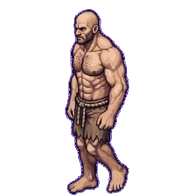
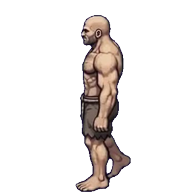
BUILD 425: install user's new 3 (E) and 7 (W) walk sheets
- Extracted 9 walk frames (every 4th from the 36-frame sheets, per the
  BUILD 409/413 convention) + 1 idle each for bare_right and bare_left
- Blue-screen keyed, uniformly registered, 195x195 feet-anchored to match
  the existing side art scale
- manifest.json: walk arrays 2->9 frames; centroid/facing/view audits
  updated for the new art
- BARB_FRAMES synced; sim: 44,015 passed, 0 failed; tsc 2 known baseline errors

Changed region(s): [[0.3077, 0.0308, 0.6769, 1.0]]

diff --git a/index.html b/index.html
@@ -1,1 +1,1 @@
-<!doctype html><html lang="en"><head><!-- BUILD309-VIEWPORT-FIX-MARKER --><meta charset="UTF-8"><meta name="viewport" content="width=device-width, initial-scale=1.0, maximum-scale=1.0, user-scalable=no"><meta name="theme-color" content="#17362e"><link rel="icon" type="image/svg+xml" href="favicon.svg"><meta name="description" content="Explore Mosslight Crossing in the Adventure Game field journal."><title>Adventure Game — Mosslight Crossing</title></head><body><div id="root"></div><script>window.__AG_BUILD="424";(function(){var shown=false;function code(m){var h=0,s=window.__AG_BUILD+"|"+m;for(var i=0;i<s.length;i++){h=(Math.imul(h,31)+s.charCodeAt(i))|0;}return "AG"+window.__AG_BUILD+"-"+(h>>>0).toString(36).toUpperCase().padStart(6,"0").slice(-5);}function show(m,k){if(shown||window.__agBooted)return;shown=true;var d=document.createElement("div");d.id="ag-boot-crash";var p=document.createElement("div");p.className="ag-boot-panel";var t=document.createElement("div");t.className="ag-boot-title";t.textContent="\u26a0 GAME FAILED TO START";var c=document.createElement("div");c.className="ag-boot-code";c.textContent=code(String(m));var g=document.createElement("div");g.className="ag-boot-msg";g.textContent=String(m).slice(0,300);var n=document.createElement("div");n.className="ag-boot-kind";n.textContent=k;var b=document.createElement("button");b.textContent="Reload game";b.onclick=function(){location.reload();};p.appendChild(t);p.appendChild(c);p.appendChild(g);p.appendChild(n);p.appendChild(b);d.appendChild(p);document.body.appendChild(d);}window.addEventListener("error",function(e){if(e.target&&e.target!==window)return;show(e.message||"script error","boot error");},true);window.addEventListener("unhandledrejection",function(e){var r=e.reason;show((r&&(r.message||r))||"rejection","boot rejection");});setTimeout(function(){if(!window.__agBooted)show("The game did not finish loading in time.","load timeout");},20000);})();</script><style>#ag-boot-crash{position:fixed;inset:0;z-index:99999;background:#0d1a16;display:flex;align-items:center;justify-content:center;padding:24px}#ag-boot-crash .ag-boot-panel{max-width:420px;width:100%;background:#14261f;border:1px solid #2c4a3e;border-radius:12px;padding:24px;text-align:center;color:#e8f0e9;font-family:system-ui,sans-serif}#ag-boot-crash .ag-boot-title{font-size:20px;font-weight:800;letter-spacing:.5px}#ag-boot-crash .ag-boot-code{font-family:monospace;font-size:22px;color:#ffd75e;margin:12px 0;letter-spacing:1px}#ag-boot-crash .ag-boot-msg{font-size:13px;color:#b9c9bd;word-break:break-word}#ag-boot-crash .ag-boot-kind{font-size:11px;color:#7d8f83;margin-top:8px;text-transform:uppercase;letter-spacing:1px}#ag-boot-crash button{margin-top:16px;background:#e8a33d;border:0;border-radius:8px;padding:10px 22px;font-size:15px;font-weight:700;color:#231603;cursor:pointer}</style><script type="module" src="/src/main.tsx"></script></body></html>
+<!doctype html><html lang="en"><head><!-- BUILD309-VIEWPORT-FIX-MARKER --><meta charset="UTF-8"><meta name="viewport" content="width=device-width, initial-scale=1.0, maximum-scale=1.0, user-scalable=no"><meta name="theme-color" content="#17362e"><link rel="icon" type="image/svg+xml" href="favicon.svg"><meta name="description" content="Explore Mosslight Crossing in the Adventure Game field journal."><title>Adventure Game — Mosslight Crossing</title></head><body><div id="root"></div><script>window.__AG_BUILD="425";(function(){var shown=false;function code(m){var h=0,s=window.__AG_BUILD+"|"+m;for(var i=0;i<s.length;i++){h=(Math.imul(h,31)+s.charCodeAt(i))|0;}return "AG"+window.__AG_BUILD+"-"+(h>>>0).toString(36).toUpperCase().padStart(6,"0").slice(-5);}function show(m,k){if(shown||window.__agBooted)return;shown=true;var d=document.createElement("div");d.id="ag-boot-crash";var p=document.createElement("div");p.className="ag-boot-panel";var t=document.createElement("div");t.className="ag-boot-title";t.textContent="\u26a0 GAME FAILED TO START";var c=document.createElement("div");c.className="ag-boot-code";c.textContent=code(String(m));var g=document.createElement("div");g.className="ag-boot-msg";g.textContent=String(m).slice(0,300);var n=document.createElement("div");n.className="ag-boot-kind";n.textContent=k;var b=document.createElement("button");b.textContent="Reload game";b.onclick=function(){location.reload();};p.appendChild(t);p.appendChild(c);p.appendChild(g);p.appendChild(n);p.appendChild(b);d.appendChild(p);document.body.appendChild(d);}window.addEventListener("error",function(e){if(e.target&&e.target!==window)return;show(e.message||"script error","boot error");},true);window.addEventListener("unhandledrejection",function(e){var r=e.reason;show((r&&(r.message||r))||"rejection","boot rejection");});setTimeout(function(){if(!window.__agBooted)show("The game did not finish loading in time.","load timeout");},20000);})();</script><style>#ag-boot-crash{position:fixed;inset:0;z-index:99999;background:#0d1a16;display:flex;align-items:center;justify-content:center;padding:24px}#ag-boot-crash .ag-boot-panel{max-width:420px;width:100%;background:#14261f;border:1px solid #2c4a3e;border-radius:12px;padding:24px;text-align:center;color:#e8f0e9;font-family:system-ui,sans-serif}#ag-boot-crash .ag-boot-title{font-size:20px;font-weight:800;letter-spacing:.5px}#ag-boot-crash .ag-boot-code{font-family:monospace;font-size:22px;color:#ffd75e;margin:12px 0;letter-spacing:1px}#ag-boot-crash .ag-boot-msg{font-size:13px;color:#b9c9bd;word-break:break-word}#ag-boot-crash .ag-boot-kind{font-size:11px;color:#7d8f83;margin-top:8px;text-transform:uppercase;letter-spacing:1px}#ag-boot-crash button{margin-top:16px;background:#e8a33d;border:0;border-radius:8px;padding:10px 22px;font-size:15px;font-weight:700;color:#231603;cursor:pointer}</style><script type="module" src="/src/main.tsx"></script></body></html>

diff --git a/src/game/iso/barbarian.ts b/src/game/iso/barbarian.ts
@@ -49,8 +49,8 @@ export const BARB_FRAMES: Record<string, Record<string, Record<string, string[]>
   bare: {
     down: { idle: ['barbarian/bare_down_idle_0.png'], walk: ['barbarian/bare_down_walk_0.png', 'barbarian/bare_down_walk_1.png'], attack: ['barbarian/bare_down_attack_0.png', 'barbarian/bare_down_attack_1.png'] },
     side: { idle: ['barbarian/bare_side_idle_0.png'], walk: ['barbarian/bare_side_walk_0.png', 'barbarian/bare_side_walk_1.png'], attack: ['barbarian/bare_side_attack_0.png', 'barbarian/bare_side_attack_1.png'] },
-    right: { idle: ['barbarian/bare_right_idle_0.png'], walk: ['barbarian/bare_right_walk_0.png', 'barbarian/bare_right_walk_1.png'], attack: ['barbarian/bare_side_attack_0.png', 'barbarian/bare_side_attack_1.png'] },
-    left: { idle: ['barbarian/bare_left_idle_0.png'], walk: ['barbarian/bare_left_walk_0.png', 'barbarian/bare_left_walk_1.png'], attack: ['barbarian/bare_side_attack_0.png', 'barbarian/bare_side_attack_1.png'] },
+    right: { idle: ['barbarian/bare_right_idle_0.png'], walk: ['barbarian/bare_right_walk_0.png', 'barbarian/bare_right_walk_1.png', 'barbarian/bare_right_walk_2.png', 'barbarian/bare_right_walk_3.png', 'barbarian/bare_right_walk_4.png', 'barbarian/bare_right_walk_5.png', 'barbarian/bare_right_walk_6.png', 'barbarian/bare_right_walk_7.png', 'barbarian/bare_right_walk_8.png'], attack: ['barbarian/bare_side_attack_0.png', 'barbarian/bare_side_attack_1.png'] },
+    left: { idle: ['barbarian/bare_left_idle_0.png'], walk: ['barbarian/bare_left_walk_0.png', 'barbarian/bare_left_walk_1.png', 'barbarian/bare_left_walk_2.png', 'barbarian/bare_left_walk_3.png', 'barbarian/bare_left_walk_4.png', 'barbarian/bare_left_walk_5.png', 'barbarian/bare_left_walk_6.png', 'barbarian/bare_left_walk_7.png', 'barbarian/bare_left_walk_8.png'], attack: ['barbarian/bare_side_attack_0.png', 'barbarian/bare_side_attack_1.png'] },
     up: { idle: ['barbarian/bare_up_idle_0.png'], walk: ['barbarian/bare_up_walk_0.png', 'barbarian/bare_up_walk_1.png', 'barbarian/bare_up_walk_2.png', 'barbarian/bare_up_walk_3.png', 'barbarian/bare_up_walk_4.png', 'barbarian/bare_up_walk_5.png', 'barbarian/bare_up_walk_6.png', 'barbarian/bare_up_walk_7.png', 'barbarian/bare_up_walk_8.png'], attack: ['barbarian/bare_up_attack_0.png', 'barbarian/bare_up_attack_1.png'] },
     upright: { idle: ['barbarian/bare_upright_idle_0.png'], walk: ['barbarian/bare_upright_walk_0.png', 'barbarian/bare_upright_walk_1.png', 'barbarian/bare_upright_walk_2.png', 'barbarian/bare_upright_walk_3.png', 'barbarian/bare_upright_walk_4.png', 'barbarian/bare_upright_walk_5.png', 'barbarian/bare_upright_walk_6.png', 'barbarian/bare_upright_walk_7.png', 'barbarian/bare_upright_walk_8.png'], attack: ['barbarian/bare_up_attack_0.png', 'barbarian/bare_up_attack_1.png'] },
     upleft: { idle: ['barbarian/bare_upleft_idle_0.png'], walk: ['barbarian/bare_upleft_walk_0.png', 'barbarian/bare_upleft_walk_1.png', 'barbarian/bare_upleft_walk_2.png', 'barbarian/bare_upleft_walk_3.png', 'barbarian/bare_upleft_walk_4.png', 'barbarian/bare_upleft_walk_5.png', 'barbarian/bare_upleft_walk_6.png', 'barbarian/bare_upleft_walk_7.png', 'barbarian/bare_upleft_walk_8.png'], attack: ['barbarian/bare_up_attack_0.png', 'barbarian/bare_up_attack_1.png'] },

diff --git a/scripts/simulate.ts b/scripts/simulate.ts
@@ -3084,8 +3084,10 @@ console.log('Testing examine system...');
   // left art; bare's left attacks reuse the side set, mirrored).
   // BUILD 409: the sword variant's left/right walks are 9 frames (sampled
   // from the user's 36-frame sheets to fill the LPC walk phase cycle).
+  // BUILD 425: the bare variant's left/right walks are 9 frames sampled
+  // every 4th from the user's new 36-frame basic left/right sheets.
   for (const v of ['bare', 'blue', 'sword', 'bow'] as const) {
-    const wantWalk = v === 'sword' ? 9 : 2;
+    const wantWalk = v === 'sword' || v === 'bare' ? 9 : 2;
     assert(BARB_FRAMES[v]?.['left']?.['idle']?.length === 1 &&
       BARB_FRAMES[v]?.['left']?.['walk']?.length === wantWalk &&
       (BARB_FRAMES[v]?.['left']?.['attack']?.length ?? 0) >= 2,
@@ -3095,7 +3097,7 @@ console.log('Testing examine system...');
   // idle + walk + attack (blue/sword/bow attacks use dedicated per-variant
   // right art; bare's right attacks reuse the side set).
   for (const v of ['bare', 'blue', 'sword', 'bow'] as const) {
-    const wantWalk = v === 'sword' ? 9 : 2;
+    const wantWalk = v === 'sword' || v === 'bare' ? 9 : 2;
     assert(BARB_FRAMES[v]?.['right']?.['idle']?.length === 1 &&
       BARB_FRAMES[v]?.['right']?.['walk']?.length === wantWalk &&
       (BARB_FRAMES[v]?.['right']?.['attack']?.length ?? 0) >= 2,
